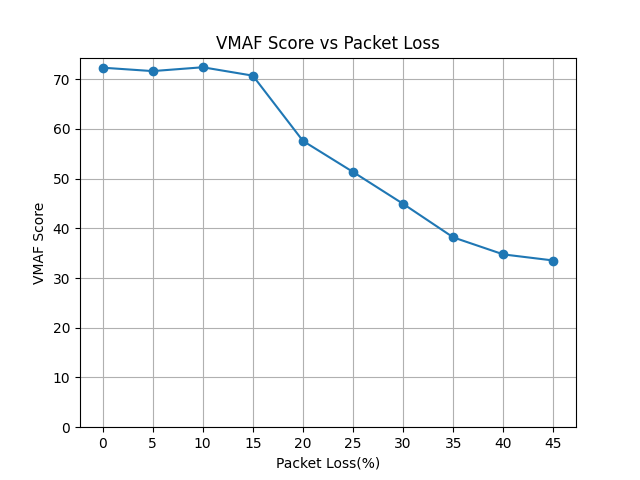
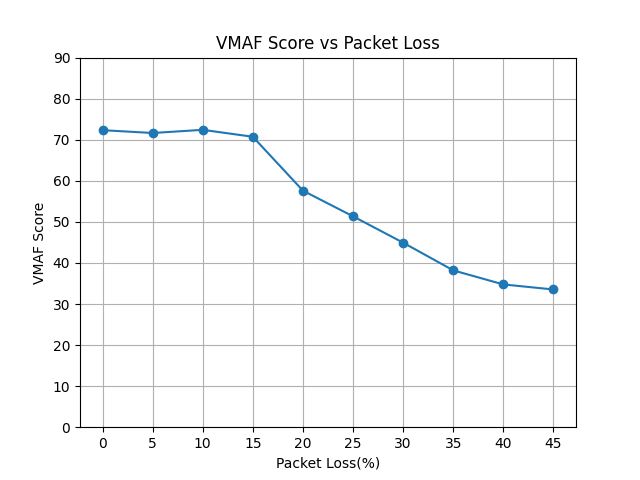
グラフの変更

diff --git a/average_vmaf_2.py b/average_vmaf_2.py
@@ -22,7 +22,7 @@ plt.xlabel('Packet Loss(%)')
 plt.ylabel('VMAF Score')
 plt.title('VMAF Score vs Packet Loss')
 plt.grid(True)
-plt.yticks([0, 10, 20, 30, 40, 50, 60, 70])  # これを追加
+plt.yticks([0, 10, 20, 30, 40, 50, 60, 70, 80, 90])  # これを追加
 plt.xticks([0, 5, 10, 15, 20, 25, 30, 35, 40, 45])
 plt.savefig(path + "vmaf_graph/vmaf_scores_2.png")
 plt.show()
